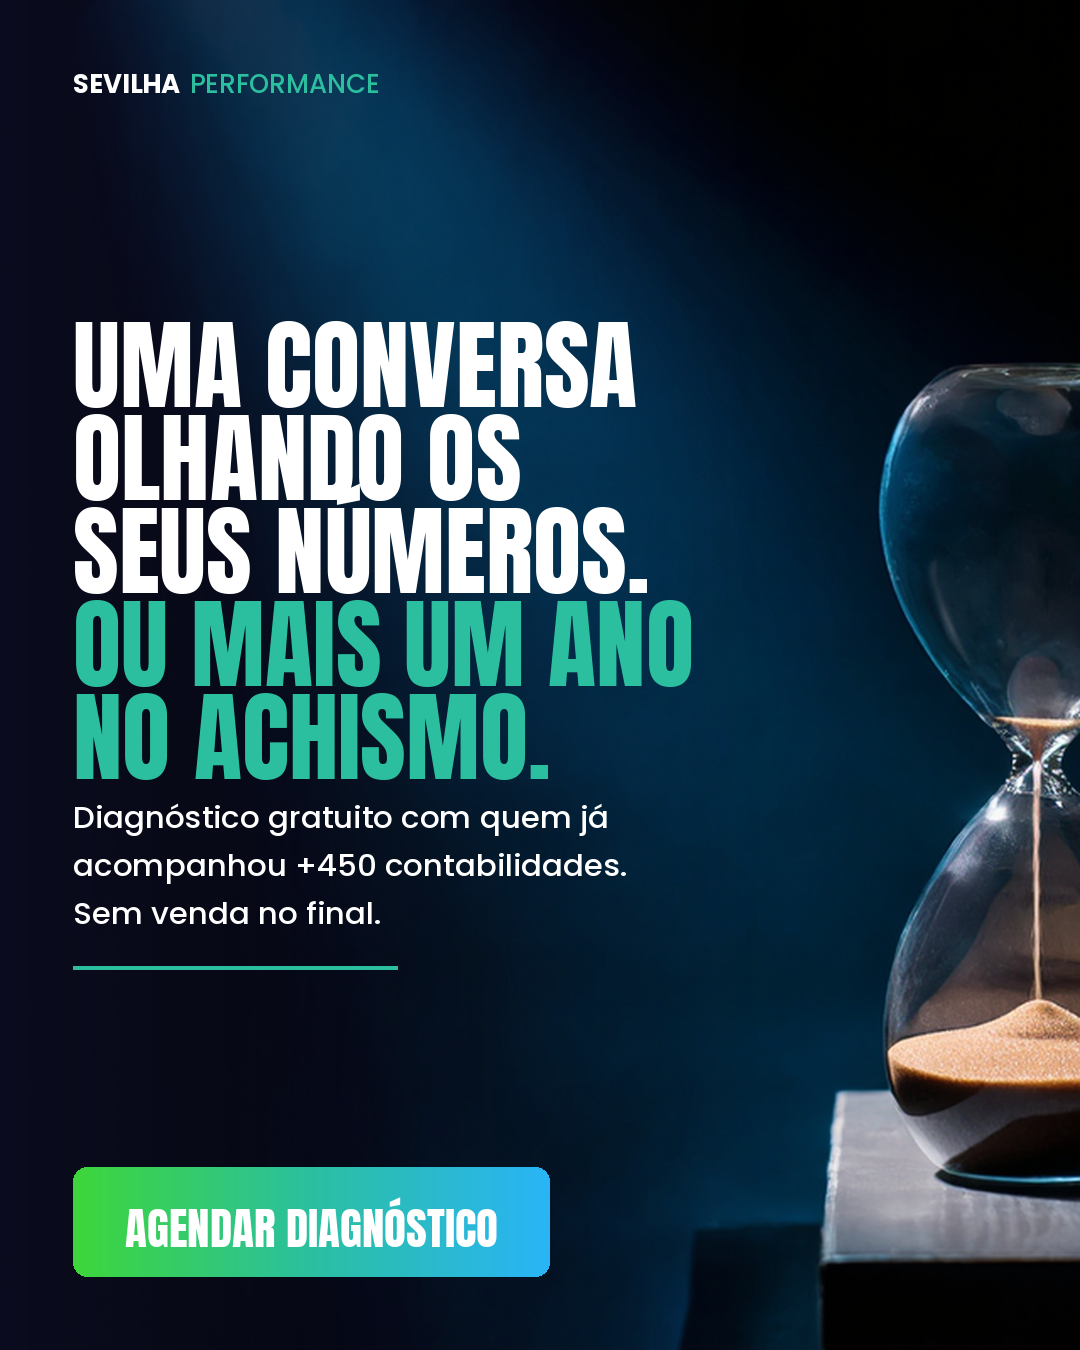
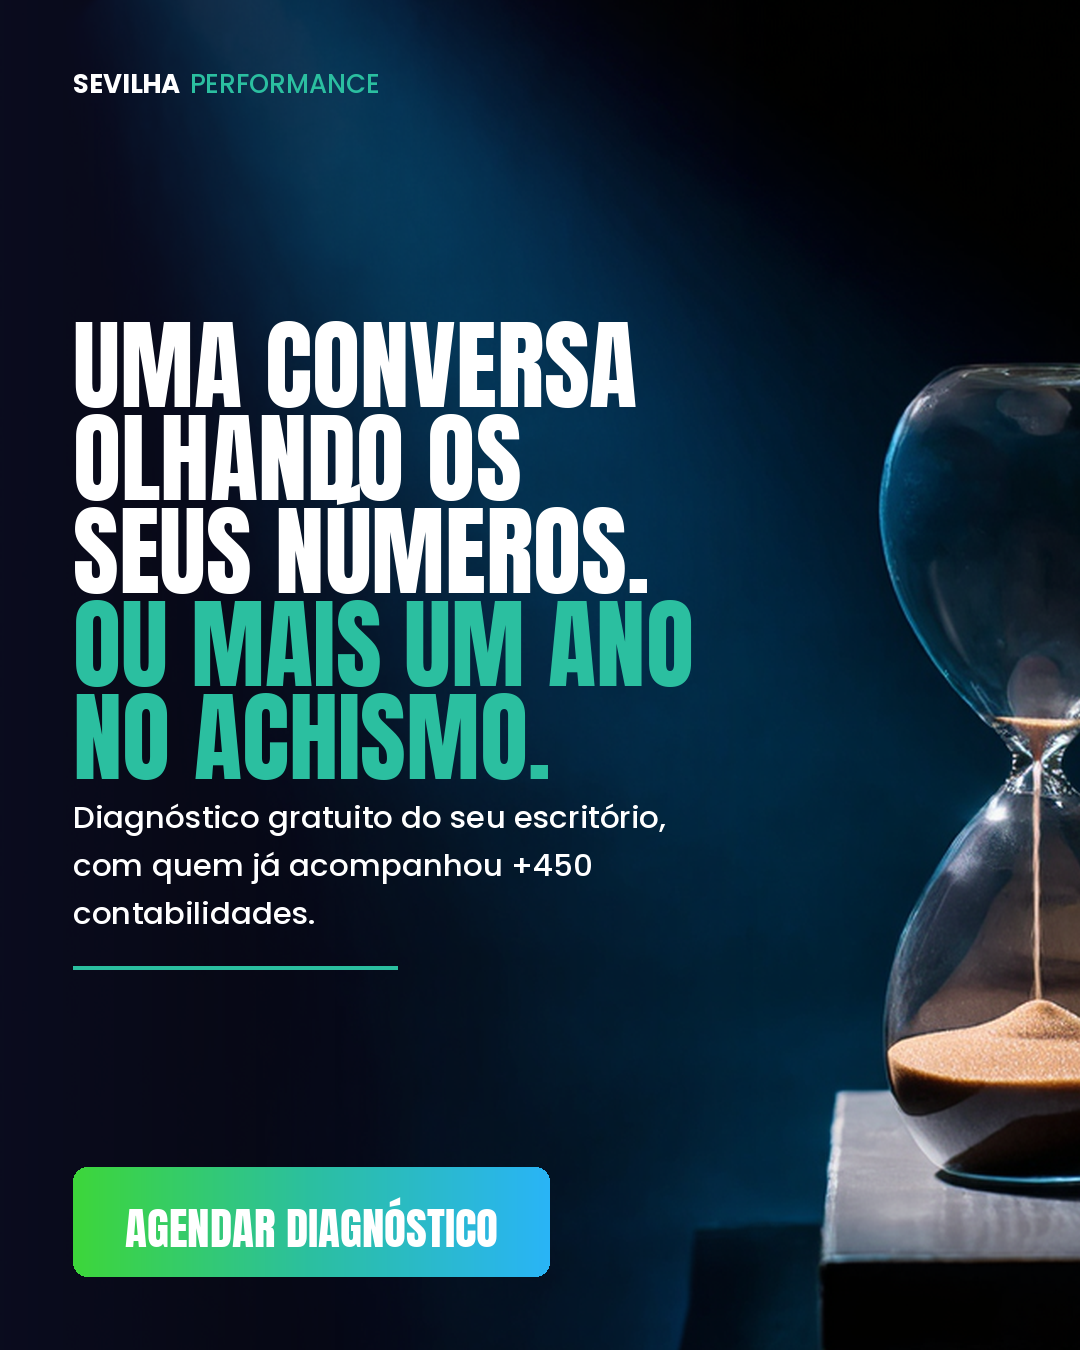
Remover "Sem venda no final" dos criativos da Sessão Estratégica
Tira a frase do subhead das duas peças e regenera 4:5 e 9:16. O subhead
passa a ser "Diagnóstico gratuito do seu escritório, com quem já acompanhou
+450 contabilidades."

Remove também a mesma promessa da copy de feed e da lista de fatos
confirmados, para o criativo e o texto do anúncio não se contradizerem.

Claude-Session: https://claude.ai/code/session_01RyMhWZjS6JzrucoHXrbyNV

Changed region(s): [[0.0611, 0.5911, 0.6111, 0.6844]]

diff --git a/criativos/sessao-estrategica/compor.py b/criativos/sessao-estrategica/compor.py
@@ -29,13 +29,13 @@ PECAS = {
     "conceito-2": {
         "headline": ["UMA CONVERSA", "OLHANDO OS", "SEUS NÚMEROS.", "OU MAIS UM ANO", "NO ACHISMO."],
         "accent_lines": [3, 4],   # índices das linhas em ACCENT
-        "subhead": "Diagnóstico gratuito com quem já acompanhou +450 contabilidades. Sem venda no final.",
+        "subhead": "Diagnóstico gratuito do seu escritório, com quem já acompanhou +450 contabilidades.",
         "cta": "AGENDAR DIAGNÓSTICO",
     },
     "conceito-1": {
         "headline": ["SEU ESCRITÓRIO", "NÃO PARA.", "QUEM NÃO PARA", "É VOCÊ."],
         "accent_lines": [2, 3],
-        "subhead": "Diagnóstico gratuito com quem já acompanhou +450 contabilidades. Sem venda no final.",
+        "subhead": "Diagnóstico gratuito do seu escritório, com quem já acompanhou +450 contabilidades.",
         "cta": "AGENDAR DIAGNÓSTICO",
     },
 }

diff --git a/criativos/sessao-estrategica/PROMPT-KLING.md b/criativos/sessao-estrategica/PROMPT-KLING.md
@@ -4,7 +4,7 @@ Anúncios da Sessão Estratégica da Sevilha Performance, no sistema visual das
 referências enviadas, com a paleta da marca.
 
 - **Público:** donos de contabilidade com até 10 colaboradores
-- **Oferta:** sessão de diagnóstico **gratuita**, sem pitch de venda no final
+- **Oferta:** sessão de diagnóstico **gratuita**
 - **Destino:** https://form.respondi.app/gvz4UKQr
 - **Formato:** 4:5 (feed) + 9:16 (Reels/Stories)
 - **Peças prontas:** `out/conceito-2-4x5.png` · `out/conceito-2-9x16.png`
@@ -21,7 +21,7 @@ Marcadas como `[SLOT]` nos prompts. Não inventar — cada uma vira claim no cri
 | `[PERGUNTAS_FORM]` | O que o formulário pergunta — define a promessa da peça |
 
 Fatos já confirmados e usáveis: `+450 contabilidades atendidas`, `35+ anos de mercado`,
-`3 mentores`, `até 10 colaboradores`, `gratuita`, `sem venda no final`.
+`3 mentores`, `até 10 colaboradores`, `gratuita`.
 
 ---
 
@@ -89,7 +89,7 @@ NÃO PARA.
 QUEM NÃO PARA
 É VOCÊ.            ← esta linha em ACCENT
 ```
-**Subhead:** `[DURACAO] com quem já acompanhou +450 contabilidades. Diagnóstico do seu escritório — sem venda no final.`
+**Subhead:** `[DURACAO] com quem já acompanhou +450 contabilidades. Diagnóstico do seu escritório contábil.`
 **CTA:** `AGENDAR DIAGNÓSTICO`
 
 ### Etapa 0 — plate a partir da foto do Vicente
@@ -140,7 +140,7 @@ SEUS NÚMEROS.
 OU MAIS UM ANO
 NO ACHISMO.       ← estas duas linhas em ACCENT
 ```
-**Subhead:** `Diagnóstico gratuito com quem já acompanhou +450 contabilidades. Sem venda no final.`
+**Subhead:** `Diagnóstico gratuito do seu escritório, com quem já acompanhou +450 contabilidades.`
 **CTA:** `AGENDAR DIAGNÓSTICO`
 
 Com a duração confirmada, a primeira linha vira `30 MINUTOS` / `45 MINUTOS` — é o
@@ -180,7 +180,7 @@ em tempo, não em preço — a sessão é gratuita e sem venda, então não há 
 
 **Banner topo:** `EXCLUSIVO PARA DONOS DE CONTABILIDADE` (faixa ACCENT, texto branco)
 **Headline:** `O RAIO-X QUE VOCÊ NUNCA FEZ NO PRÓPRIO ESCRITÓRIO`
-**Subhead:** `[ENTREGAVEL] em [DURACAO]. Sem custo, sem venda — só onde a sua margem está vazando.`
+**Subhead:** `[ENTREGAVEL] em [DURACAO]. Onde a sua margem está vazando.`
 **CTA:** `AGENDAR AGORA`
 
 ### Etapa 0 — plate
@@ -276,14 +276,14 @@ Limites: texto principal 125 caracteres visíveis · título 40 · descrição 3
 - Descrição: `Donos de contabilidade` (22)
 
 **Conceito 2**
-- Principal: `Uma sessão olhando seus números. Ou mais um ano decidindo no achismo. Sem custo e sem venda no final.` (101)
+- Principal: `Uma sessão olhando seus números. Ou mais um ano decidindo no achismo. O diagnóstico é gratuito.` (95)
 - Título: `Ou mais um ano no achismo` (25)
 - Descrição: `Agende sua sessão` (17)
 
 **Conceito 3**
 - Principal: `Onde sua margem está vazando? O diagnóstico é gratuito e feito por quem já viu +450 contabilidades.` (99)
 - Título: `+450 contabilidades atendidas` (29)
-- Descrição: `Sem custo, sem venda` (20)
+- Descrição: `Diagnóstico gratuito` (20)
 
 CTA do Meta: `Cadastre-se` ou `Saiba mais` · destino `https://form.respondi.app/gvz4UKQr`
 
